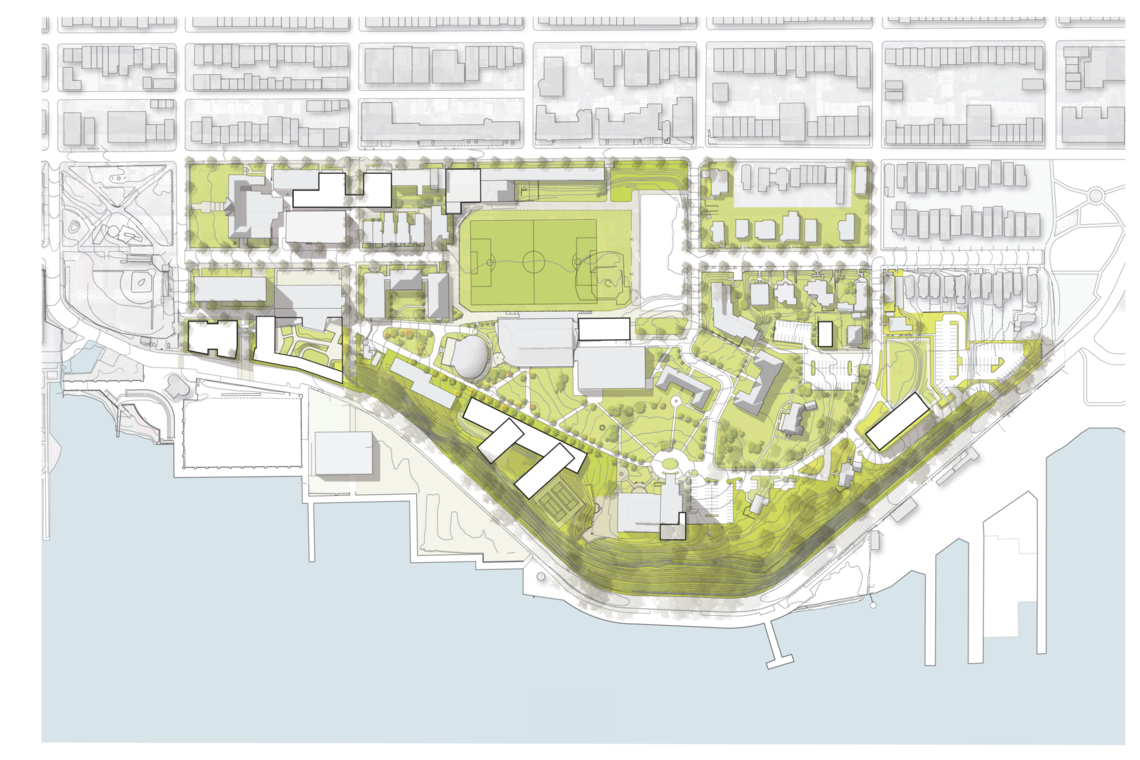
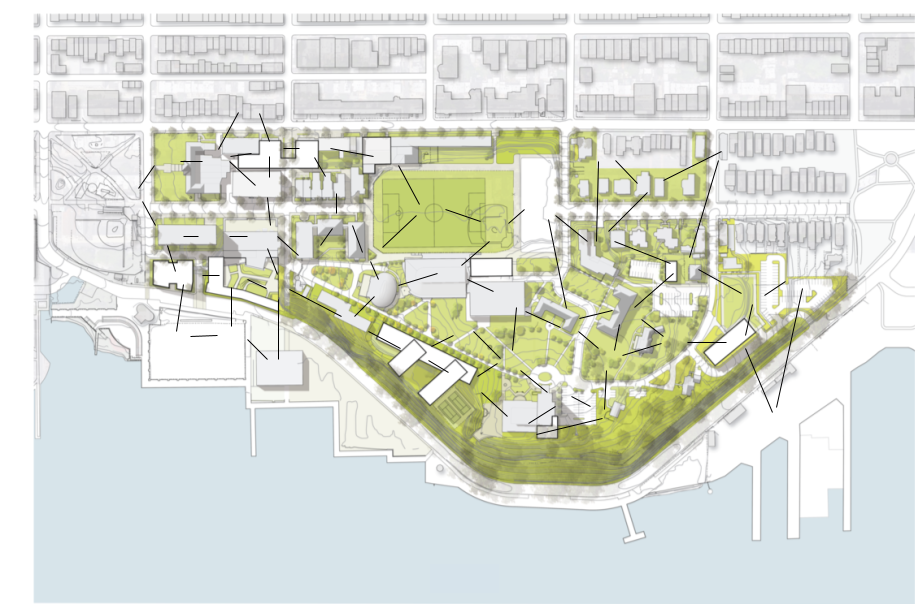
map shows adjacencies

diff --git a/server/services/helpers.js b/server/services/helpers.js
@@ -30,7 +30,7 @@ const locationsInit = {
     Burchard: { diseaseCubes: diseaseCubeInit, researchStation: false, adjacent: ["Carnegie", "EAS", "Babbio Steps", "McLean"], id: 5 },
     'Sig Ep': { diseaseCubes: diseaseCubeInit, researchStation: false, adjacent: ["Carnegie", "EAS"], id: 6 },
     'EAS Lawn': { diseaseCubes: diseaseCubeInit, researchStation: false, adjacent: ["EAS", "McLean Labs","Stevens Park"], id: 7 },
-    EAS: { diseaseCubes: diseaseCubeInit, researchStation: false, adjacent: ["Carnegie", "ABS", "EAS Lawn", "Sig Ep"], id: 8 },
+    EAS: { diseaseCubes: diseaseCubeInit, researchStation: false, adjacent: ["Carnegie", "ABS", "EAS Lawn", "Sig Ep", "Burchard"], id: 8 },
     'McLean Labs': { diseaseCubes: diseaseCubeInit, researchStation: false, adjacent: ["EAS Lawn", "Stevens Park", "McLean Lot", "McLean"], id: 9 },
     McLean: { diseaseCubes: diseaseCubeInit, researchStation: false, adjacent: ["McLean Labs", "Babbio Steps", "Burchard"], id: 10 },
     'Babbio Steps': { diseaseCubes: diseaseCubeInit, researchStation: false, adjacent: ["Babbio", "Burchard", "McLean", "Morton"], id: 11 },
@@ -41,7 +41,7 @@ const locationsInit = {
     'Pier Soccer Field': { diseaseCubes: diseaseCubeInit, researchStation: false, adjacent: ["Babbio Garage", "Griffith", "Pier"], id: 16 },
     Pier: { diseaseCubes: diseaseCubeInit, researchStation: false, adjacent: ["McLean Lot", "Pier Soccer Field"], id: 17 },
     Morton: { diseaseCubes: diseaseCubeInit, researchStation: false, adjacent: ["Babbio Steps", "River Terrace", "Pierce"], id: 18 },
-    Pierce: { diseaseCubes: diseaseCubeInit, researchStation: false, adjacent: ["Morton", "Kidde"], id: 19 },
+    Pierce: { diseaseCubes: diseaseCubeInit, researchStation: false, adjacent: ["Morton", "Kidde", "River Terrace"], id: 19 },
     Kidde: { diseaseCubes: diseaseCubeInit, researchStation: false, adjacent: ["Pierce", "ABS", "Debaun Athletic Complex", "Walker Gym"], id: 20 },
     Davis: { diseaseCubes: diseaseCubeInit, researchStation: false, adjacent: ["Babbio", "Walker Gym", "UCC South Tower"], id: 21 },
     'Walker Gym': { diseaseCubes: diseaseCubeInit, researchStation: false, adjacent: ["Schaefer", "Kidde", "Davis"], id: 22 },
@@ -53,22 +53,22 @@ const locationsInit = {
     'Schaefer Lawn': { diseaseCubes: diseaseCubeInit, researchStation: false, adjacent: ["Schaefer", "UCC South Tower", "Statue"], id: 28 },
     'UCC South Tower': { diseaseCubes: diseaseCubeInit, researchStation: false, adjacent: ["Schaefer Lawn", "Davis", "UCC North Tower"], id: 29 },
     'UCC North Tower': { diseaseCubes: diseaseCubeInit, researchStation: false, adjacent: ["UCC South Tower", "Statue", "Howe"], id: 30 },
-    '8th Street Lot': { diseaseCubes: diseaseCubeInit, researchStation: false, adjacent: ["Baseball Field", "Palmer"], id: 31 },
+    '8th Street Lot': { diseaseCubes: diseaseCubeInit, researchStation: false, adjacent: ["Baseball Field", "Palmer", "Jonas"], id: 31 },
     Howe: { diseaseCubes: diseaseCubeInit, researchStation: false, adjacent: ["UCC North Tower", "Howe Circle", "Howe Lot"], id: 32 },
     'Howe Circle': { diseaseCubes: diseaseCubeInit, researchStation: false, adjacent: ["Howe", "Howe Lot", "Statue", "Palmer"], id: 33 },
     Statue: { diseaseCubes: diseaseCubeInit, researchStation: false, adjacent: ["Library", "Howe Circle", "UCC North Tower", "Schaefer Lawn"], id: 34 },
-    Palmer: { diseaseCubes: diseaseCubeInit, researchStation: false, adjacent: ["Howe Circle", "8th Street Lot", "Library","Volleyball Courts"], id: 35 },
-    'Howe Lot': { diseaseCubes: diseaseCubeInit, researchStation: false, adjacent: ["Howe Circle", "Howe"], id: 36 },
+    Palmer: { diseaseCubes: diseaseCubeInit, researchStation: false, adjacent: ["Howe Circle", "8th Street Lot", "Library","Volleyball Courts", "Humphreys"], id: 35 },
+    'Howe Lot': { diseaseCubes: diseaseCubeInit, researchStation: false, adjacent: ["Howe Circle", "Howe", "Volleyball Courts"], id: 36 },
     'Chi Phi': { diseaseCubes: diseaseCubeInit, researchStation: false, adjacent: ["Lodge", "Jonas"], id: 37 },
     Piskies: { diseaseCubes: diseaseCubeInit, researchStation: false, adjacent: ["Lodge", "Student Wellness Center", "Humphreys"], id: 38 },
-    Jonas: { diseaseCubes: diseaseCubeInit, researchStation: false, adjacent: ["Lodge", "Student Wellness Center"], id: 39 },
-    Humphreys: { diseaseCubes: diseaseCubeInit, researchStation: false, adjacent: ["Student Wellness Center", "Martha", "Volleyball Courts"], id: 40 },
-    'Volleyball Courts': { diseaseCubes: diseaseCubeInit, researchStation: false, adjacent: ["Palmer", "Humphreys", "Martha"], id: 41 },
+    Jonas: { diseaseCubes: diseaseCubeInit, researchStation: false, adjacent: ["Lodge", "Student Wellness Center", "Chi Phi", "8th Street Lot"], id: 39 },
+    Humphreys: { diseaseCubes: diseaseCubeInit, researchStation: false, adjacent: ["Student Wellness Center", "Martha", "Volleyball Courts", "Palmer"], id: 40 },
+    'Volleyball Courts': { diseaseCubes: diseaseCubeInit, researchStation: false, adjacent: ["Palmer", "Humphreys", "Martha", "Howe Lot"], id: 41 },
     Martha: { diseaseCubes: diseaseCubeInit, researchStation: false, adjacent: ["Volleyball Courts", "Humphreys", "Castle Point"], id: 42 },
     'Castle Point': { diseaseCubes: diseaseCubeInit, researchStation: false, adjacent: ["Martha", "Tennis Courts", "Castle Point Lot", "Skate Park"], id: 43 },
-    'Student Wellness Center': { diseaseCubes: diseaseCubeInit, researchStation: false, adjacent: ["Piskies", "Jonas", "Humphreys"], id: 44 },
+    'Student Wellness Center': { diseaseCubes: diseaseCubeInit, researchStation: false, adjacent: ["Piskies", "Jonas", "Humphreys", "Tennis Courts"], id: 44 },
     'Lodge': { diseaseCubes: diseaseCubeInit, researchStation: false, adjacent: ["Chi Phi", "Piskies", "Jonas"], id: 45 },
-    'Tennis Courts': { diseaseCubes: diseaseCubeInit, researchStation: false, adjacent: ["Castle Point", "Castle Point Lot"], id: 46 },
+    'Tennis Courts': { diseaseCubes: diseaseCubeInit, researchStation: false, adjacent: ["Castle Point", "Castle Point Lot", "Student Wellness Center"], id: 46 },
     'Skate Park': { diseaseCubes: diseaseCubeInit, researchStation: false, adjacent: ["Castle Point", "Castle Point Lot"], id: 47 },
     'Castle Point Lot': { diseaseCubes: diseaseCubeInit, researchStation: false, adjacent: ["Castle Point", "Tennis Courts", "Skate Park"], id: 48 },
 };

diff --git a/client/src/Hand.jsx b/client/src/Hand.jsx
@@ -8,7 +8,7 @@ const Hand = ({ roomId, playerName, onClick, selectedCardId, selectedLocation })
     const [playerHand, setPlayerHand] = useState([]);
     const [loading, setLoading] = useState(true);
     const [selectedCard, setSelectedCard] = useState(null);
-    let refreshInterval = 5000;
+    let refreshInterval = 1000;
 
     useEffect(() => {
         const fetchRoomData = async () => {
@@ -38,8 +38,8 @@ const Hand = ({ roomId, playerName, onClick, selectedCardId, selectedLocation })
 
         if (roomId) {
             fetchRoomData();
-            // const intervalId = setInterval(fetchRoomData, refreshInterval);
-            // return () => clearInterval(intervalId);
+            const intervalId = setInterval(fetchRoomData, refreshInterval);
+            return () => clearInterval(intervalId);
         }
     }, [roomId]);
 

diff --git a/client/src/Board.jsx b/client/src/Board.jsx
@@ -28,7 +28,7 @@ const Board = () => {
     const [dataChannel, setDataChannel] = useState(null);
     const { roomId } = useParams();
     const { name } = useParams();
-    const refreshInterval = 5000;
+    const refreshInterval = 1000;
     let token = localStorage.getItem("token");
     const [gameStatus, setGameStatus] = useState("");
 
@@ -183,8 +183,8 @@ const Board = () => {
 
         if (roomId) {
             handleGetRoomData();
-            // const intervalId = setInterval(handleGetRoomData, refreshInterval);
-            // return () => clearInterval(intervalId);
+            const intervalId = setInterval(handleGetRoomData, refreshInterval);
+            return () => clearInterval(intervalId);
         }
     }, []);
 

diff --git a/client/src/Lobby.jsx b/client/src/Lobby.jsx
@@ -52,8 +52,8 @@ function Lobby() {
 
         if (roomId) {
             handleGetRoomData();
-            // const intervalId = setInterval(handleGetRoomData, refreshInterval);
-            // return () => clearInterval(intervalId);
+            const intervalId = setInterval(handleGetRoomData, refreshInterval);
+            return () => clearInterval(intervalId);
         }
     }, []);
 
